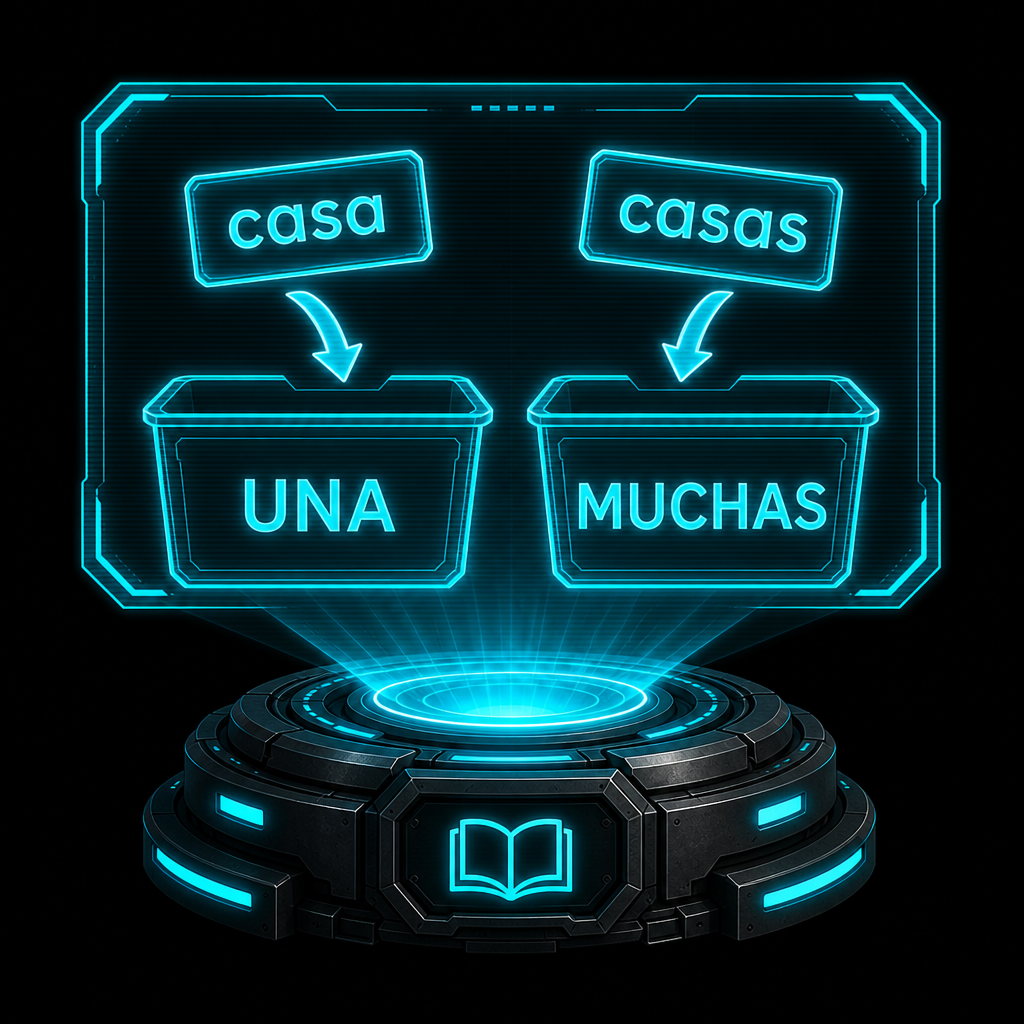
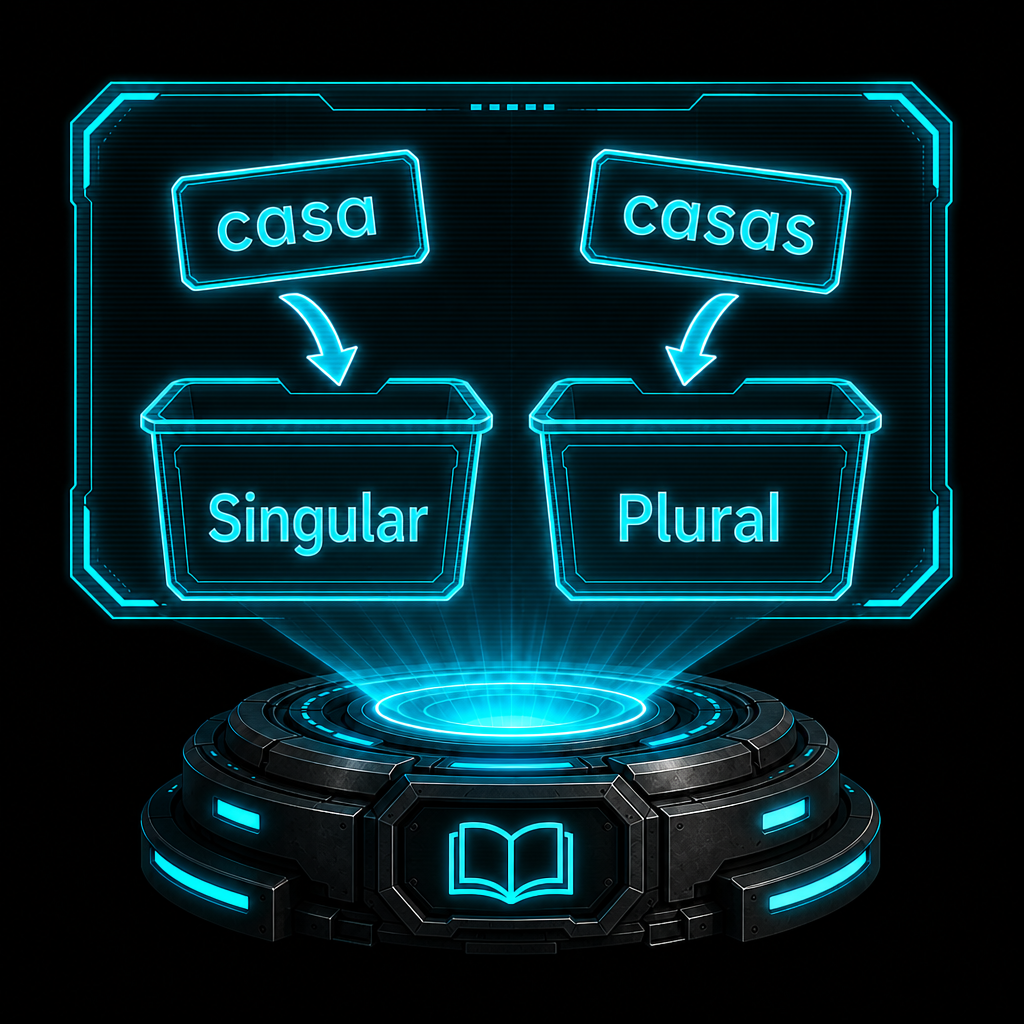
Cambia Clasifica a Singular/Plural en portada, copy y bandos del juego.

Changed region(s): [[0.0625, 0.0625, 0.9375, 0.9375], [0.125, 0.7812, 0.2812, 0.9062]]

diff --git a/src/minigames/adapters/palabrasClasifica.ts b/src/minigames/adapters/palabrasClasifica.ts
@@ -1,5 +1,5 @@
 /**
- * Clasifica: rondas Una/Muchas · El/La · Artículos · género+número.
+ * Clasifica: rondas Singular/Plural · El/La · Artículos · género+número.
  * Tap palabra → tap bando (sin DnD library).
  */
 import { listClasificaItems } from '@/feinetas/wordsBanks'
@@ -74,8 +74,8 @@ function binForItem(item: WordsClasificaItem, kind: ClasificaKind): ClasificaBin
 function binsForKind(kind: ClasificaKind): ClasificaBin[] {
   if (kind === 'number') {
     return [
-      { id: 'sg', label: 'Una' },
-      { id: 'pl', label: 'Muchas' },
+      { id: 'sg', label: 'Singular' },
+      { id: 'pl', label: 'Plural' },
     ]
   }
   if (kind === 'gender') {
@@ -103,8 +103,8 @@ function binsForKind(kind: ClasificaKind): ClasificaBin[] {
 function promptForKind(kind: ClasificaKind): { prompt: string; help: string } {
   if (kind === 'number') {
     return {
-      prompt: '¿Una o muchas?',
-      help: 'Arrastra o toca: una palabra = Una; varias = Muchas.',
+      prompt: '¿Singular o plural?',
+      help: 'Arrastra o toca: una cosa = Singular; varias = Plural.',
     }
   }
   if (kind === 'gender') {

diff --git a/src/features/languages/words/exercises.ts b/src/features/languages/words/exercises.ts
@@ -44,7 +44,7 @@ export const WORDS_EXERCISES: WordsExercise[] = [
   {
     id: 'clasifica',
     title: 'Clasifica',
-    text: 'Una/muchas, el/la y artículos',
+    text: 'Singular/plural, el/la y artículos',
     art: 'words-clasifica',
     className: 'mode-poster--train',
     tag: '02',
